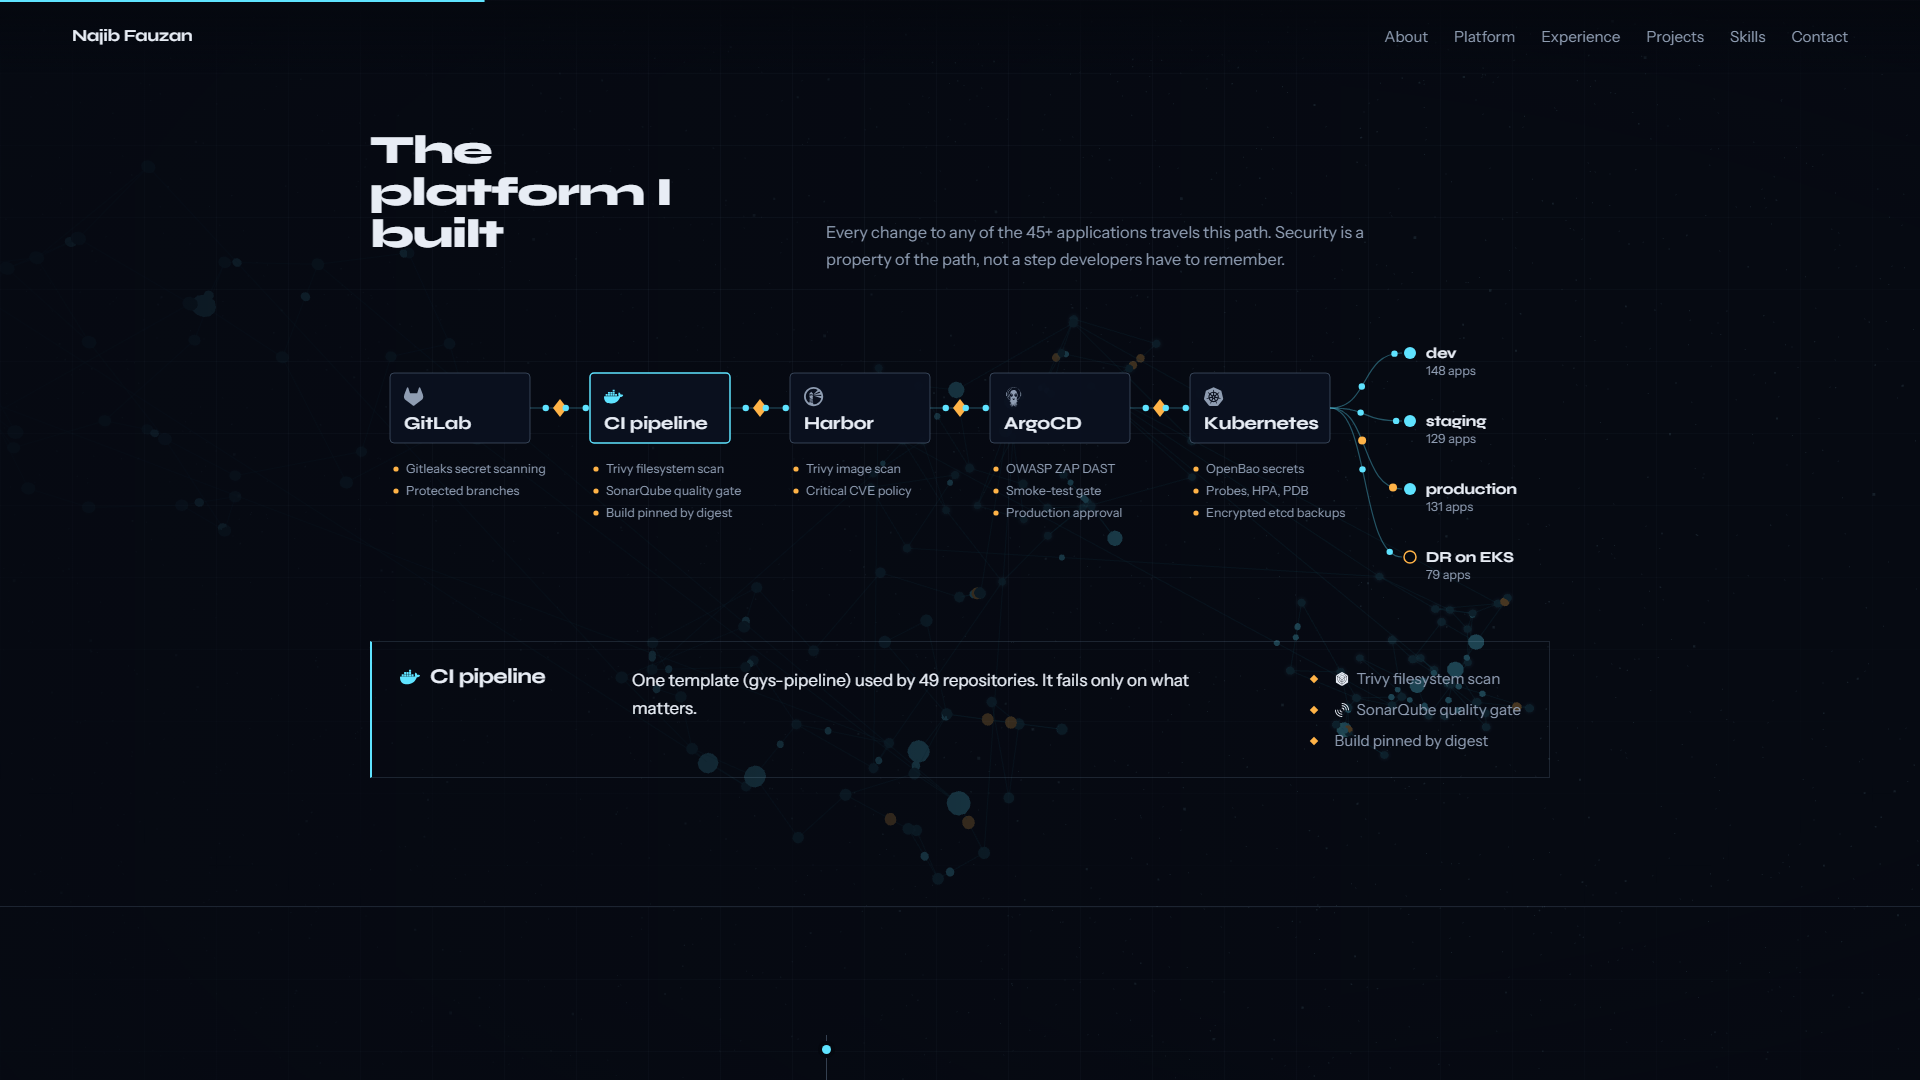
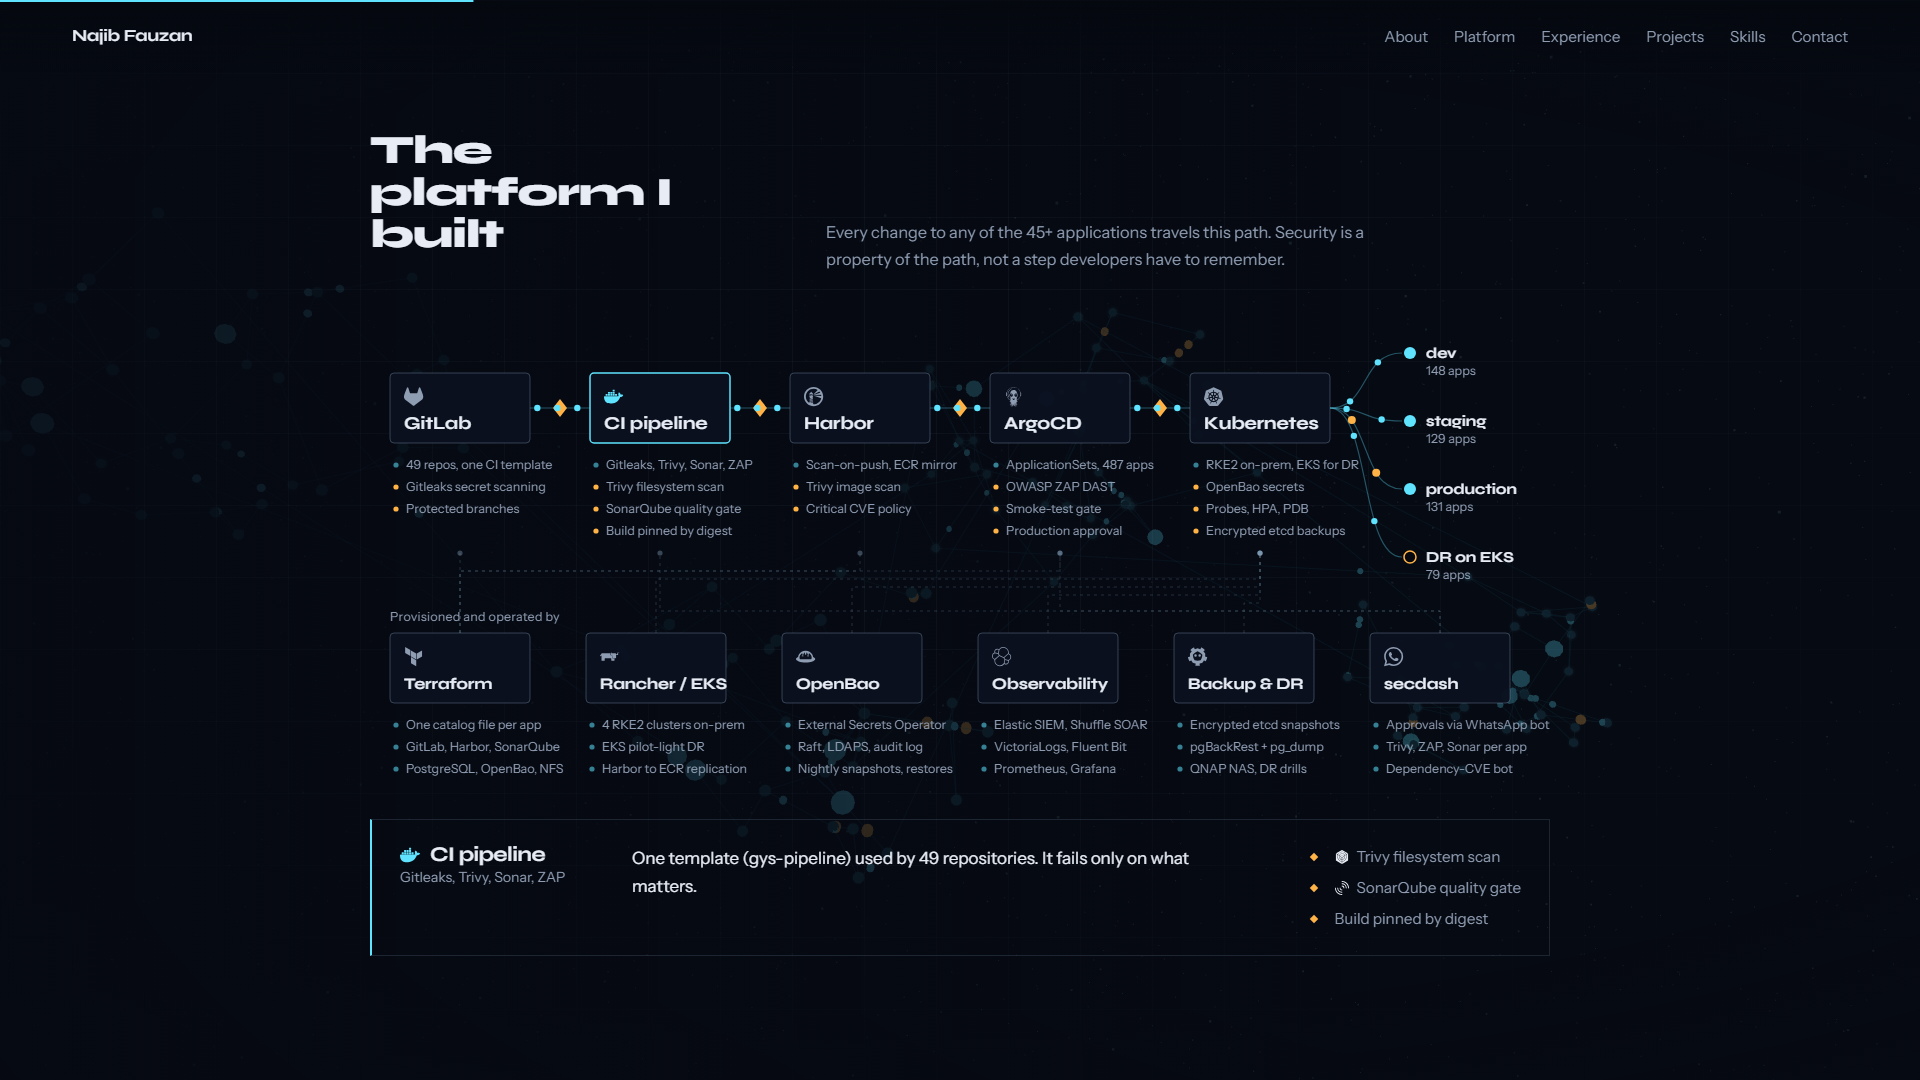
Platform diagram: add the provisioning and operations layer
- Second row under the pipeline, "Provisioned and operated by": Terraform,
  Rancher / EKS, OpenBao (+ESO), Observability, Backup & DR, secdash, each a
  clickable stage box with brand icon, three bullets and the shared detail
  panel; thin dashed connectors show which stages each one feeds (solid
  cyan when selected)
- Stage boxes gain a tools line (49 repos / one CI template, ApplicationSets
  487 apps, RKE2 + EKS, ...) with a cyan dot; amber dots stay security gates
- Stacked phone list includes the new layer
- All data in src/content.ts (platform.stages[].tools, platform.layer)

diff --git a/src/components/PlatformDiagram.tsx b/src/components/PlatformDiagram.tsx
@@ -4,6 +4,7 @@ import { platform } from '../content';
 import { brandFor, brands, type BrandName } from '../lib/brands';
 import BrandIcon from './BrandIcon';
 
+// Row 1: delivery pipeline. Row 2: what provisions and operates it.
 const BOX_W = 140;
 const BOX_H = 70;
 const BOX_Y = 60;
@@ -12,6 +13,17 @@ const X0 = 20;
 const MID = BOX_Y + BOX_H / 2;
 const CLUSTER_X = 1040;
 const CLUSTER_Y = [40, 108, 176, 244];
+const FEED_END_Y = 240; // where upward connectors meet the stage column
+const LAYER_STEP = 196;
+const LAYER_Y = 320;
+const bulletY = (boxY: number, i: number) => boxY + BOX_H + 26 + i * 22;
+
+type Item = { id: string; name: string; icon: string; summary: string; list: string[]; tools?: string; isLayer: boolean };
+const items: Item[] = [
+  ...platform.stages.map((s) => ({ id: s.id, name: s.name, icon: s.icon, summary: s.summary, list: s.gates, tools: s.tools, isLayer: false })),
+  ...platform.layer.items.map((l) => ({ id: l.id, name: l.name, icon: l.icon, summary: l.summary, list: l.points, isLayer: true })),
+];
+const stageCenter = (id: string) => X0 + platform.stages.findIndex((s) => s.id === id) * STEP + BOX_W / 2;
 
 function Packets({ d, count, dur, amber = false }: { d: string; count: number; dur: number; amber?: boolean }) {
   return (
@@ -25,15 +37,41 @@ function Packets({ d, count, dur, amber = false }: { d: string; count: number; d
   );
 }
 
+function StageBox({ x, y, icon, name, active, onSelect, small = false }: { x: number; y: number; icon: string; name: string; active: boolean; onSelect: () => void; small?: boolean }) {
+  const brand = brands[icon as BrandName];
+  return (
+    <g
+      className={active ? 'dg-stage dg-stage-active' : 'dg-stage'}
+      onClick={onSelect}
+      onKeyDown={(e) => (e.key === 'Enter' || e.key === ' ') && onSelect()}
+      tabIndex={0}
+      role="button"
+      aria-pressed={active}
+      aria-label={name}
+    >
+      <rect x={x} y={y} width={BOX_W} height={BOX_H} rx={4} className="dg-box" />
+      {brand && <path d={brand.path} className="dg-icon" transform={`translate(${x + 14}, ${y + 14}) scale(0.8)`} />}
+      <text x={x + 14} y={y + 56} className={small ? 'dg-name dg-name-sm' : 'dg-name'}>
+        {name}
+      </text>
+    </g>
+  );
+}
+
 export default function PlatformDiagram() {
   const [active, setActive] = useState(platform.stages[1].id);
   const reduce = useReducedMotion();
-  const current = platform.stages.find((s) => s.id === active)!;
+  const current = items.find((s) => s.id === active)!;
   const lastRight = X0 + 4 * STEP + BOX_W;
 
   return (
     <div className="diagram">
-      <svg viewBox="0 0 1180 300" className="diagram-svg" role="img" aria-label="Pipeline from GitLab through CI scanning, Harbor, ArgoCD to Kubernetes clusters">
+      <svg
+        viewBox="0 0 1180 478"
+        className="diagram-svg"
+        role="img"
+        aria-label="Pipeline from GitLab through CI scanning, Harbor, ArgoCD to Kubernetes clusters, provisioned by Terraform and operated with Rancher, OpenBao, observability, backups and secdash"
+      >
         {/* connectors between stages, each with a gate marker in the middle */}
         {platform.stages.slice(0, -1).map((s, i) => {
           const x1 = X0 + i * STEP + BOX_W;
@@ -68,33 +106,58 @@ export default function PlatformDiagram() {
           );
         })}
 
-        {/* stages */}
+        {/* upward connectors: layer item to the stages it provisions or serves */}
+        {platform.layer.items.map((l, i) => {
+          const cx = X0 + i * LAYER_STEP + BOX_W / 2;
+          const busY = 258 + i * 8;
+          return (
+            <g key={l.id} className={l.id === active ? 'dg-feed dg-feed-active' : 'dg-feed'}>
+              {l.feeds.map((target) => {
+                const tx = stageCenter(target);
+                return (
+                  <g key={target}>
+                    <path d={`M${cx},${LAYER_Y} V${busY} H${tx} V${FEED_END_Y}`} className="dg-feed-line" />
+                    <circle cx={tx} cy={FEED_END_Y} r={2.6} className="dg-feed-dot" />
+                  </g>
+                );
+              })}
+            </g>
+          );
+        })}
+
+        {/* pipeline stages */}
         {platform.stages.map((s, i) => {
           const x = X0 + i * STEP;
-          const isActive = s.id === active;
+          const lines = s.tools ? [s.tools, ...s.gates] : s.gates;
           return (
-            <g
-              key={s.id}
-              className={isActive ? 'dg-stage dg-stage-active' : 'dg-stage'}
-              onClick={() => setActive(s.id)}
-              onKeyDown={(e) => (e.key === 'Enter' || e.key === ' ') && setActive(s.id)}
-              tabIndex={0}
-              role="button"
-              aria-pressed={isActive}
-              aria-label={s.name}
-            >
-              <rect x={x} y={BOX_Y} width={BOX_W} height={BOX_H} rx={4} className="dg-box" />
-              {brands[s.icon as BrandName] && (
-                <path d={brands[s.icon as BrandName].path} className="dg-icon" transform={`translate(${x + 14}, ${BOX_Y + 14}) scale(0.8)`} />
-              )}
-              <text x={x + 14} y={BOX_Y + 56} className="dg-name">
-                {s.name}
-              </text>
-              {s.gates.map((g, gi) => (
-                <g key={g}>
-                  <circle cx={x + 6} cy={BOX_Y + BOX_H + 26 + gi * 22} r={2.6} className="dg-gate-dot" />
-                  <text x={x + 16} y={BOX_Y + BOX_H + 30 + gi * 22} className="dg-small">
-                    {g}
+            <g key={s.id}>
+              <StageBox x={x} y={BOX_Y} icon={s.icon} name={s.name} active={s.id === active} onSelect={() => setActive(s.id)} />
+              {lines.map((line, li) => (
+                <g key={line}>
+                  <circle cx={x + 6} cy={bulletY(BOX_Y, li) - 4} r={2.6} className={s.tools && li === 0 ? 'dg-tool-dot' : 'dg-gate-dot'} />
+                  <text x={x + 16} y={bulletY(BOX_Y, li)} className="dg-small">
+                    {line}
+                  </text>
+                </g>
+              ))}
+            </g>
+          );
+        })}
+
+        {/* provisioning and operations layer */}
+        <text x={X0} y={LAYER_Y - 12} className="dg-small dg-layer-title">
+          {platform.layer.title}
+        </text>
+        {platform.layer.items.map((l, i) => {
+          const x = X0 + i * LAYER_STEP;
+          return (
+            <g key={l.id}>
+              <StageBox x={x} y={LAYER_Y} icon={l.icon} name={l.name} active={l.id === active} onSelect={() => setActive(l.id)} small />
+              {l.points.map((pt, pi) => (
+                <g key={pt}>
+                  <circle cx={x + 6} cy={bulletY(LAYER_Y, pi) - 4} r={2.6} className="dg-tool-dot" />
+                  <text x={x + 16} y={bulletY(LAYER_Y, pi)} className="dg-small">
+                    {pt}
                   </text>
                 </g>
               ))}
@@ -111,6 +174,7 @@ export default function PlatformDiagram() {
               <BrandIcon name={s.icon} size={16} />
               {s.name}
             </strong>
+            {s.tools && <em>{s.tools}</em>}
             <span>{s.gates.join(', ')}</span>
           </li>
         ))}
@@ -118,16 +182,29 @@ export default function PlatformDiagram() {
           <strong>Clusters</strong>
           <span>{platform.clusters.map((c) => `${c.name} (${c.apps} apps)`).join(', ')}</span>
         </li>
+        <li className="diagram-list-title">{platform.layer.title}</li>
+        {platform.layer.items.map((l) => (
+          <li key={l.id}>
+            <strong>
+              <BrandIcon name={l.icon} size={16} />
+              {l.name}
+            </strong>
+            <span>{l.points.join(', ')}</span>
+          </li>
+        ))}
       </ol>
 
       <div className="diagram-detail" aria-live="polite">
-        <h3>
-          <BrandIcon name={current.icon} size={20} />
-          {current.name}
-        </h3>
+        <div>
+          <h3>
+            <BrandIcon name={current.icon} size={20} />
+            {current.name}
+          </h3>
+          {current.tools && <p className="diagram-detail-tools">{current.tools}</p>}
+        </div>
         <p>{current.summary}</p>
-        <ul>
-          {current.gates.map((g) => (
+        <ul className={current.isLayer ? 'dg-facts' : undefined}>
+          {current.list.map((g) => (
             <li key={g}>
               <BrandIcon name={brandFor(g)} size={14} />
               {g}

diff --git a/src/content.ts b/src/content.ts
@@ -48,7 +48,9 @@ export const about = {
   ],
 };
 
-// Platform diagram: stages flow left to right; gates are the checks a change must pass.
+// Platform diagram: stages flow left to right; `tools` names what runs the stage, `gates`
+// are the security checks a change must pass (amber). `layer` is the second row: what
+// provisions and operates the pipeline; `feeds` lists the stage ids each item connects to.
 export const platform = {
   title: 'The platform I built',
   intro:
@@ -58,6 +60,7 @@ export const platform = {
       id: 'git',
       name: 'GitLab',
       icon: 'gitlab',
+      tools: '49 repos, one CI template',
       summary: 'Projects, protected branches and CI variables created by Terraform from one catalog file.',
       gates: ['Gitleaks secret scanning', 'Protected branches'],
     },
@@ -65,6 +68,7 @@ export const platform = {
       id: 'ci',
       name: 'CI pipeline',
       icon: 'docker',
+      tools: 'Gitleaks, Trivy, Sonar, ZAP',
       summary: 'One template (gys-pipeline) used by 49 repositories. It fails only on what matters.',
       gates: ['Trivy filesystem scan', 'SonarQube quality gate', 'Build pinned by digest'],
     },
@@ -72,6 +76,7 @@ export const platform = {
       id: 'harbor',
       name: 'Harbor',
       icon: 'harbor',
+      tools: 'Scan-on-push, ECR mirror',
       summary: 'Scan-on-push, images pinned by digest, weekly base-image rebuilds with 10-minute auto-rollback.',
       gates: ['Trivy image scan', 'Critical CVE policy'],
     },
@@ -79,6 +84,7 @@ export const platform = {
       id: 'argocd',
       name: 'ArgoCD',
       icon: 'argo',
+      tools: 'ApplicationSets, 487 apps',
       summary: 'ApplicationSets for every environment, zero spec drift, one shared Helm chart.',
       gates: ['OWASP ZAP DAST', 'Smoke-test gate', 'Production approval'],
     },
@@ -86,10 +92,65 @@ export const platform = {
       id: 'clusters',
       name: 'Kubernetes',
       icon: 'kubernetes',
+      tools: 'RKE2 on-prem, EKS for DR',
       summary: 'Dev, staging and production on RKE2, pilot-light DR on AWS EKS. Secrets arrive through External Secrets from OpenBao.',
       gates: ['OpenBao secrets', 'Probes, HPA, PDB', 'Encrypted etcd backups'],
     },
   ],
+  layer: {
+    title: 'Provisioned and operated by',
+    items: [
+      {
+        id: 'terraform',
+        name: 'Terraform',
+        icon: 'terraform',
+        feeds: ['git', 'harbor', 'argocd'],
+        summary:
+          'gys-platform: one catalog file becomes the GitLab project, Harbor project, SonarQube project, CI variables, PostgreSQL database, OpenBao secrets, NFS share, Helm values and ArgoCD config.',
+        points: ['One catalog file per app', 'GitLab, Harbor, SonarQube', 'PostgreSQL, OpenBao, NFS'],
+      },
+      {
+        id: 'clusters-infra',
+        name: 'Rancher / EKS',
+        icon: 'rancher',
+        feeds: ['clusters'],
+        summary: 'Four on-prem RKE2 clusters managed with Rancher (dev, staging, production, ArgoCD) and a pilot-light AWS EKS cluster for DR with Harbor to ECR replication.',
+        points: ['4 RKE2 clusters on-prem', 'EKS pilot-light DR', 'Harbor to ECR replication'],
+      },
+      {
+        id: 'secrets',
+        name: 'OpenBao',
+        icon: 'openbao',
+        feeds: ['clusters'],
+        summary: 'OpenBao on Raft with LDAPS login, audit log and Kubernetes auth per cluster; External Secrets Operator delivers secrets into namespaces. Nightly encrypted snapshots with tested restore.',
+        points: ['External Secrets Operator', 'Raft, LDAPS, audit log', 'Nightly snapshots, restores'],
+      },
+      {
+        id: 'observability',
+        name: 'Observability',
+        icon: 'elastic',
+        feeds: ['clusters'],
+        summary: 'Elastic SIEM with 85 detection rules and Shuffle SOAR triage; VictoriaLogs for application logs, Prometheus and Grafana for metrics, Fluent Bit shipping from every cluster.',
+        points: ['Elastic SIEM, Shuffle SOAR', 'VictoriaLogs, Fluent Bit', 'Prometheus, Grafana'],
+      },
+      {
+        id: 'backup',
+        name: 'Backup & DR',
+        icon: 'etcd',
+        feeds: ['clusters'],
+        summary: 'Encrypted etcd and secret snapshots, pgBackRest plus daily pg_dump for PostgreSQL, SQL Agent jobs for SQL Server, all landing on a QNAP NAS; restores proven in DR drills.',
+        points: ['Encrypted etcd snapshots', 'pgBackRest + pg_dump', 'QNAP NAS, DR drills'],
+      },
+      {
+        id: 'secdash',
+        name: 'secdash',
+        icon: 'whatsapp',
+        feeds: ['ci', 'argocd'],
+        summary: 'Security dashboard: production approvals through a WhatsApp bot, Trivy, ZAP and SonarQube findings per app, and the dependency-CVE bot that opens fix MRs and rebuilds base images.',
+        points: ['Approvals via WhatsApp bot', 'Trivy, ZAP, Sonar per app', 'Dependency-CVE bot'],
+      },
+    ],
+  },
   clusters: [
     { name: 'dev', apps: 148 },
     { name: 'staging', apps: 129 },

diff --git a/src/styles.css b/src/styles.css
@@ -516,6 +516,38 @@ main {
   fill: var(--amber);
 }
 
+.dg-tool-dot {
+  fill: rgba(95, 227, 255, 0.55);
+}
+
+.dg-layer-title {
+  fill: var(--muted);
+  font-size: 12px;
+  letter-spacing: 0.02em;
+}
+
+.dg-feed-line {
+  fill: none;
+  stroke: rgba(150, 180, 210, 0.22);
+  stroke-width: 1;
+  stroke-dasharray: 3 4;
+  transition: stroke 0.2s;
+}
+
+.dg-feed-dot {
+  fill: rgba(150, 180, 210, 0.35);
+  transition: fill 0.2s;
+}
+
+.dg-feed-active .dg-feed-line {
+  stroke: rgba(95, 227, 255, 0.7);
+  stroke-dasharray: none;
+}
+
+.dg-feed-active .dg-feed-dot {
+  fill: var(--cyan);
+}
+
 .pk {
   fill: var(--cyan);
 }
@@ -551,6 +583,10 @@ main {
   font-weight: 700;
   font-size: 18px;
   fill: var(--text);
+}
+
+.dg-name-sm {
+  font-size: 16px;
 }
 
 .dg-small {
@@ -608,6 +644,19 @@ main {
   font-size: 0.95rem;
 }
 
+.diagram-list em {
+  font-style: normal;
+  font-size: 0.92rem;
+  color: rgba(95, 227, 255, 0.85);
+}
+
+.diagram-list-title {
+  color: var(--muted);
+  font-size: 0.9rem;
+  padding-top: 28px;
+  border-top: 0;
+}
+
 .diagram-detail {
   margin-top: 28px;
   padding: 24px 28px;
@@ -630,6 +679,19 @@ main {
 .diagram-detail h3 svg {
   color: var(--cyan);
   flex: none;
+}
+
+.diagram-detail-tools {
+  color: var(--muted);
+  font-size: 0.88rem;
+  margin: 8px 0 0;
+  max-width: 18ch;
+}
+
+.diagram-detail .dg-facts li::before {
+  background: rgba(95, 227, 255, 0.6);
+  transform: none;
+  border-radius: 50%;
 }
 
 .diagram-detail p {
